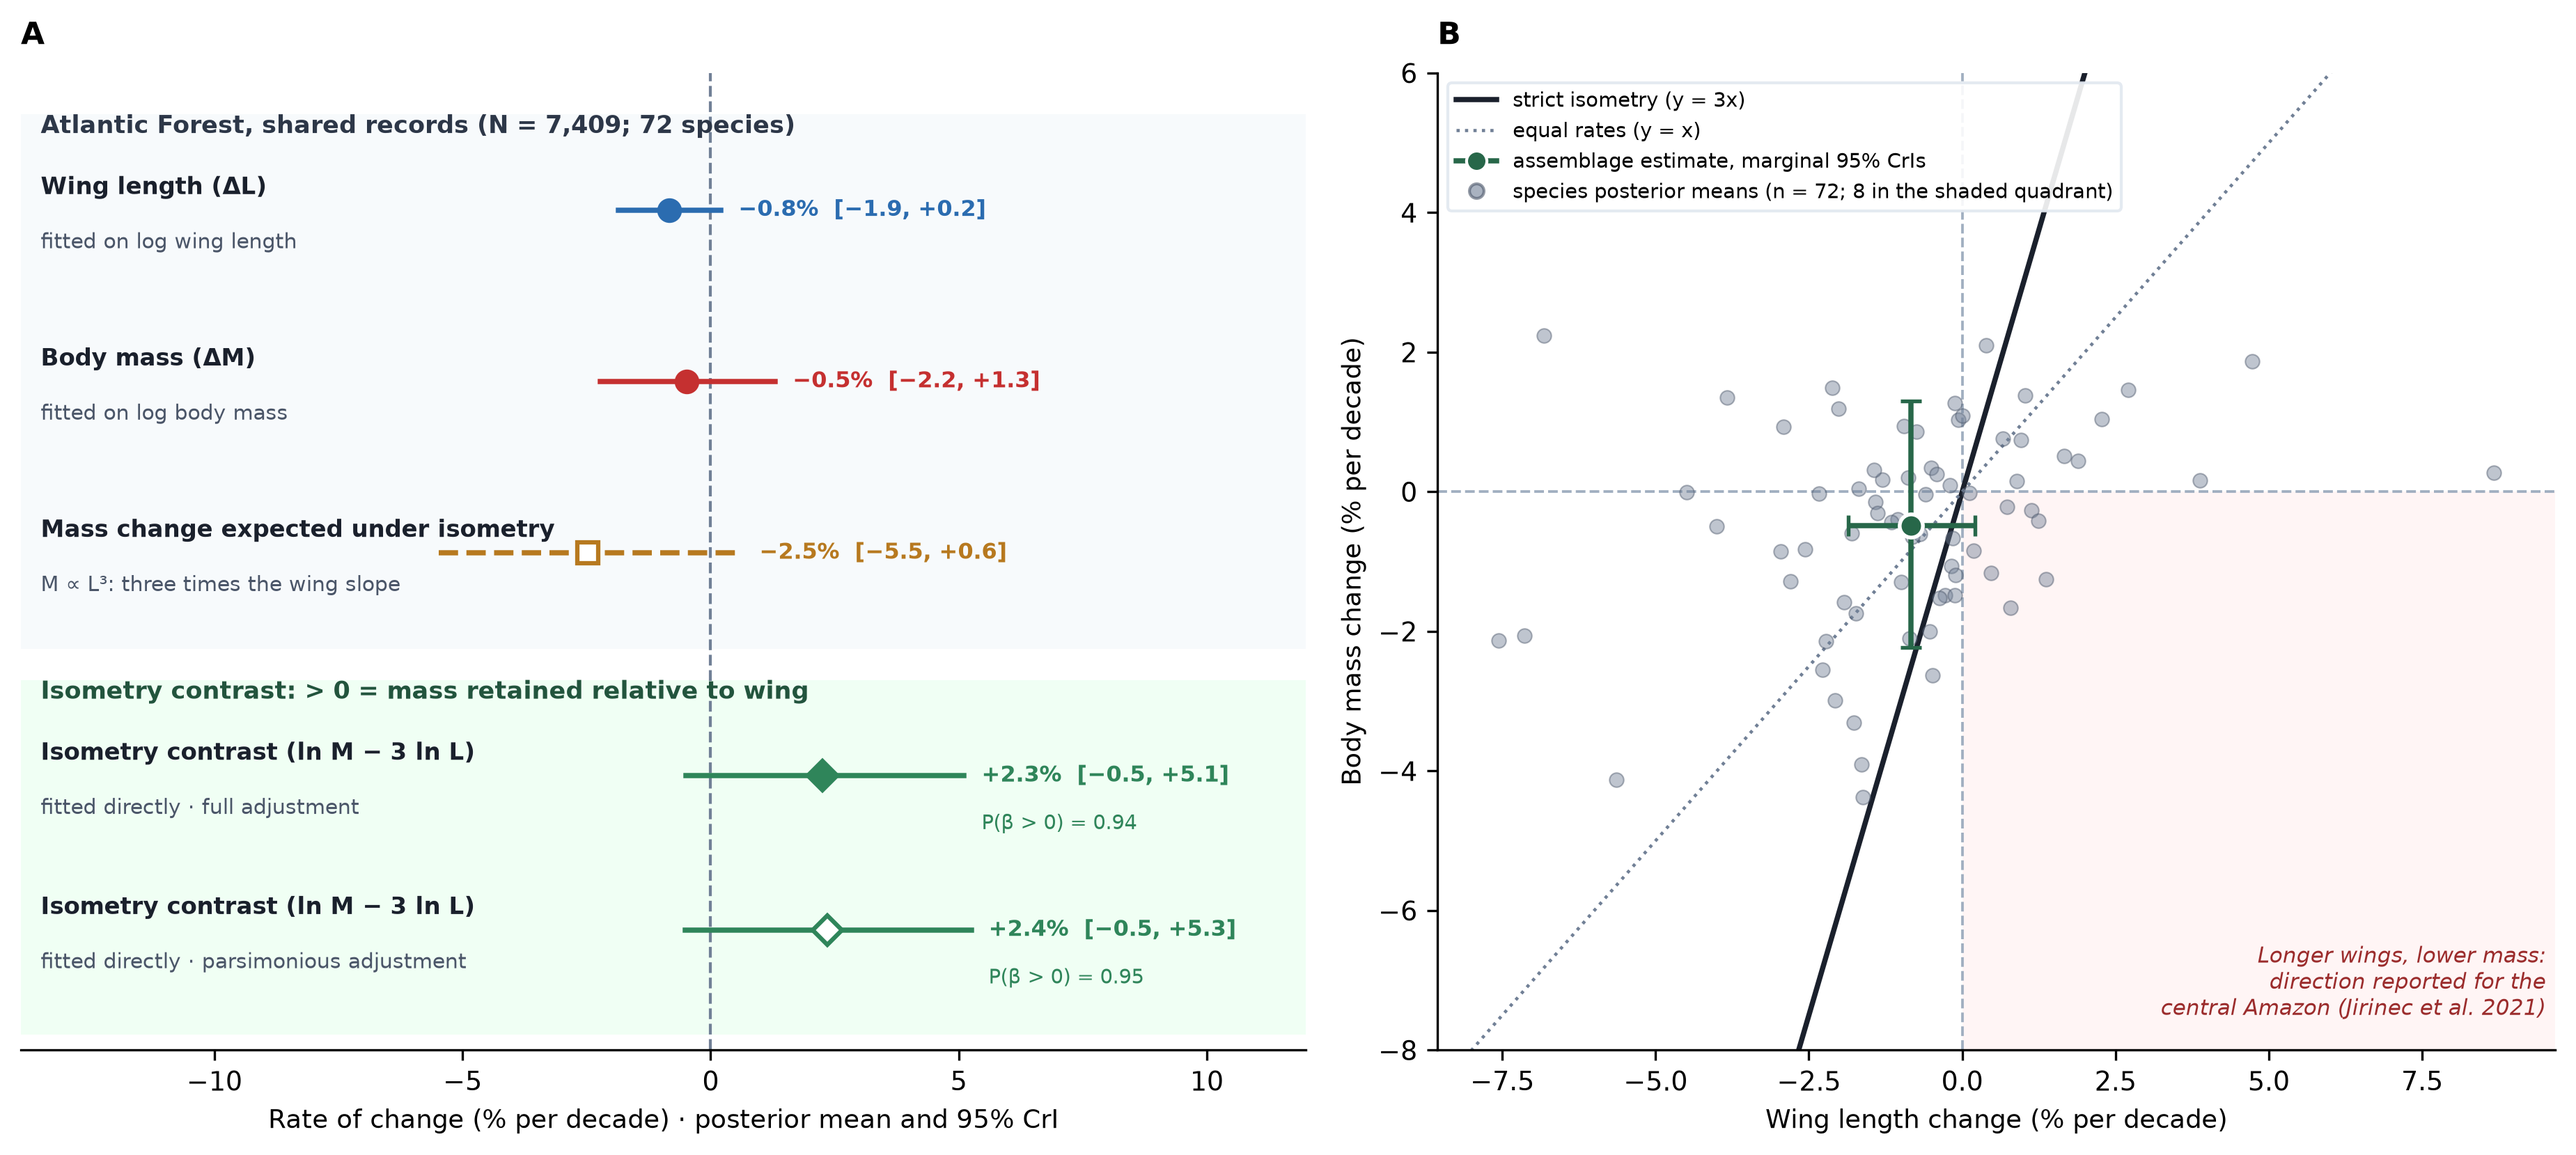
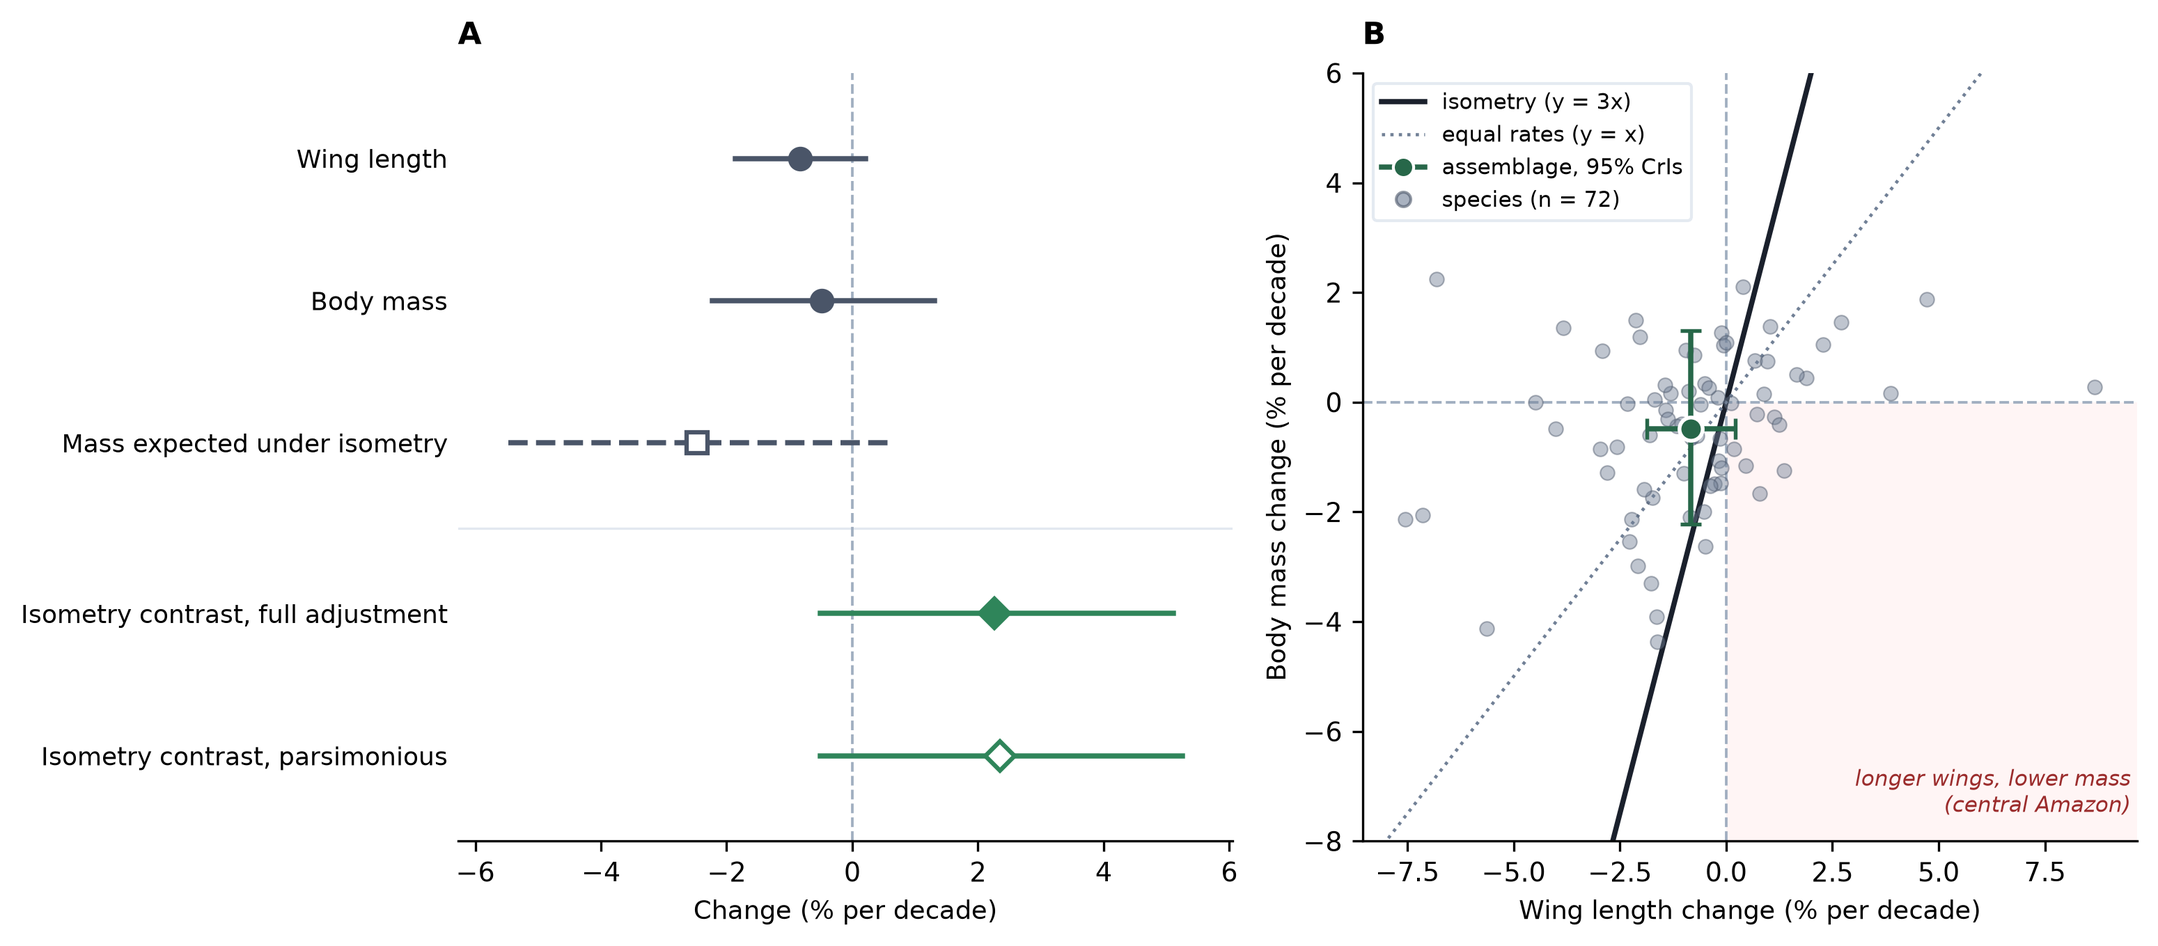
feat(figures): model-based year effects in Fig. 3; simpler isometry figure
- wing_year_effects.R: M0 and M3 with capture year as a factor (glmmTMB REML,
  50 trees, Rubin-pooled), centred on the record-weighted mean year; Fig. 3b
  shows these instead of raw annual means +/- SE, which treated records as
  independent (Shinichi's comment); raw means kept only as a fallback
- Fig. 3a: raw data and fitted trends only; legend rewritten
- isometry figure: panel A as a plain forest plot (no shaded blocks,
  sub-labels or inline values); shorter panel B legend and quadrant label

diff --git a/Manuscript/make_isometry_figure.py b/Manuscript/make_isometry_figure.py
@@ -16,8 +16,8 @@ Panel B: bivariate state space (dWing vs dMass). Wing and mass are fitted in
   shown with its two marginal 95% CrIs, not an ellipse. Species points are
   posterior means of fixed + species deviation. The quadrant of longer wings
   and lower mass is the direction of change reported for the central Amazon
-  (Jirinec et al. 2021); it is drawn qualitatively because that study reports
-  species-level trends, not a community-level rate comparable with ours.
+  (Jirinec et al. 2021), drawn as a direction; the rates themselves are compared
+  in fig-amazon (Analysis/scripts/jirinec_benchmark.R).
 
 Inputs (Rscript Analysis/scripts/make_figures.R export):
   Analysis/output/figure_data/fig_isometry_stan.csv
@@ -53,42 +53,33 @@ def neg(val, fmt=".1f"):
 def sgn(val, fmt=".1f"):
     return neg(val, "+" + fmt)
 
-fig, (ax1, ax2) = plt.subplots(1, 2, figsize=(12.4, 5.6), gridspec_kw={"width_ratios": [1.15, 1.0]})
+fig, (ax1, ax2) = plt.subplots(1, 2, figsize=(10.4, 4.6), gridspec_kw={"width_ratios": [1.0, 1.0]})
 
 # ---------------------------------------------------------------------------
-# Panel A: rates and isometry contrast
+# Panel A: rates and isometry contrast -- a plain forest plot (Shinichi Nakagawa's
+# comment, 2026-09-30: the earlier version with shaded blocks, sub-labels and value
+# annotations was hard to read). Values are given in the text and legend.
 # ---------------------------------------------------------------------------
 rows = [
-    ("wing", "Wing length (ΔL)", "fitted on log wing length", "#2B6CB0", "o", "#2B6CB0", "-"),
-    ("mass", "Body mass (ΔM)", "fitted on log body mass", "#C53030", "o", "#C53030", "-"),
-    ("expected_isometric_mass", "Mass change expected under isometry",
-     "M ∝ L³: three times the wing slope", "#B7791F", "s", "white", "--"),
-    ("contrast", "Isometry contrast (ln M − 3 ln L)", "fitted directly · full adjustment", "#2F855A", "D", "#2F855A", "-"),
-    ("contrast_parsimonious", "Isometry contrast (ln M − 3 ln L)", "fitted directly · parsimonious adjustment",
-     "#2F855A", "D", "white", "-"),
+    ("wing", "Wing length", "#4A5568", "o", "#4A5568", "-"),
+    ("mass", "Body mass", "#4A5568", "o", "#4A5568", "-"),
+    ("expected_isometric_mass", "Mass expected under isometry", "#4A5568", "s", "white", "--"),
+    ("contrast", "Isometry contrast, full adjustment", "#2F855A", "D", "#2F855A", "-"),
+    ("contrast_parsimonious", "Isometry contrast, parsimonious", "#2F855A", "D", "white", "-"),
 ]
-ys = [4.4, 3.4, 2.4, 1.1, 0.2]
-ax1.axvline(0, color="#718096", lw=1.0, ls="--", zorder=1)
-ax1.axhspan(1.85, 4.95, color="#F7FAFC", zorder=0)
-ax1.axhspan(-0.4, 1.65, color="#F0FFF4", zorder=0)
-XL = -13.5
-for (key, lab, sub, col, mk, mfc, ls), y in zip(rows, ys):
+ys = [4, 3, 2, 0.8, -0.2]
+ax1.axvline(0, color="#A0AEC0", lw=0.9, ls="--", zorder=1)
+ax1.axhline(1.4, color="#E2E8F0", lw=0.8, zorder=0)
+for (key, lab, col, mk, mfc, ls), y in zip(rows, ys):
     r = iso.loc[key]
     ax1.plot([r.lower, r.upper], [y, y], color=col, lw=1.8, ls=ls, zorder=3)
     ax1.plot(r.pct_per_decade, y, marker=mk, ms=7, color=col, markerfacecolor=mfc, markeredgewidth=1.5, zorder=4)
-    ax1.text(XL, y + 0.13, lab, fontsize=8.2, fontweight="bold", color="#1A202C", va="center")
-    ax1.text(XL, y - 0.19, sub, fontsize=7.2, color="#4A5568", va="center")
-    ax1.text(r.upper + 0.35, y, f"{sgn(r.pct_per_decade)}%  [{sgn(r.lower)}, {sgn(r.upper)}]",
-             fontsize=7.6, color=col, va="center", fontweight="bold")
-    if key.startswith("contrast"):
-        ax1.text(r.upper + 0.35, y - 0.28, f"P(β > 0) = {1 - r.p_neg:.2f}", fontsize=7, color=col, va="center")
-ax1.text(XL, 4.85, f"Atlantic Forest, shared records (N = {N:,}; {len(spp)} species)", fontsize=8.5,
-         fontweight="bold", color="#2D3748")
-ax1.text(XL, 1.55, "Isometry contrast: > 0 = mass retained relative to wing", fontsize=8.5,
-         fontweight="bold", color="#22543D")
-ax1.set_xlim(XL - 0.4, 12.0); ax1.set_ylim(-0.5, 5.2)
-ax1.set_yticks([]); ax1.spines["left"].set_visible(False)
-ax1.set_xlabel("Rate of change (% per decade) · posterior mean and 95% CrI", fontsize=8.8)
+ax1.set_yticks(ys); ax1.set_yticklabels([r[1] for r in rows], fontsize=8.6)
+ax1.tick_params(axis="y", length=0)
+lo = min(iso.loc[[r[0] for r in rows], "lower"].min(), -1.0); hi = max(iso.loc[[r[0] for r in rows], "upper"].max(), 1.0)
+ax1.set_xlim(lo - 0.8, hi + 0.8); ax1.set_ylim(-0.8, 4.6)
+ax1.spines["left"].set_visible(False)
+ax1.set_xlabel("Change (% per decade)", fontsize=8.8)
 ax1.set_title("A", fontsize=10.5, fontweight="bold", loc="left", pad=10)
 
 # ---------------------------------------------------------------------------
@@ -99,7 +90,7 @@ xlim = (min(-6.0, spp.pct_per_decade_wing.min() - pad), max(4.0, spp.pct_per_dec
 ylim = (min(-8.0, spp.pct_per_decade_mass.min() - pad), max(6.0, spp.pct_per_decade_mass.max() + pad))
 ax2.set_xlim(xlim); ax2.set_ylim(ylim)
 ax2.add_patch(Rectangle((0, ylim[0]), xlim[1], -ylim[0], facecolor="#FFF5F5", edgecolor="none", zorder=0))
-ax2.text(xlim[1] - 0.15, ylim[0] + 0.4, "Longer wings, lower mass:\ndirection reported for the\ncentral Amazon (Jirinec et al. 2021)",
+ax2.text(xlim[1] - 0.15, ylim[0] + 0.4, "longer wings, lower mass\n(central Amazon)",
          fontsize=7.4, color="#9B2C2C", style="italic", ha="right", va="bottom")
 ax2.axvline(0, color="#A0AEC0", lw=0.9, ls="--", zorder=1)
 ax2.axhline(0, color="#A0AEC0", lw=0.9, ls="--", zorder=1)
@@ -119,13 +110,13 @@ ax2.set_xlabel("Wing length change (% per decade)", fontsize=8.8)
 ax2.set_ylabel("Body mass change (% per decade)", fontsize=8.8)
 ax2.set_title("B", fontsize=10.5, fontweight="bold", loc="left", pad=10)
 ax2.legend(handles=[
-    Line2D([0], [0], color="#1A202C", lw=1.8, label="strict isometry (y = 3x)"),
+    Line2D([0], [0], color="#1A202C", lw=1.8, label="isometry (y = 3x)"),
     Line2D([0], [0], color="#718096", lw=1.1, ls=":", label="equal rates (y = x)"),
     Line2D([0], [0], marker="o", color="#276749", mec="white", ms=7, lw=1.8,
-           label="assemblage estimate, marginal 95% CrIs"),
+           label="assemblage, 95% CrIs"),
     Line2D([0], [0], marker="o", color="none", markerfacecolor="#718096", markeredgecolor="#4A5568", alpha=0.6,
-           ms=5, label=f"species posterior means (n = {len(spp)}; {n_decoupled} in the shaded quadrant)")],
-    loc="upper left", frameon=True, facecolor="white", framealpha=0.9, edgecolor="#E2E8F0", fontsize=7.0)
+           ms=5, label=f"species (n = {len(spp)})")],
+    loc="upper left", frameon=True, facecolor="white", framealpha=0.9, edgecolor="#E2E8F0", fontsize=7.4)
 
 plt.tight_layout()
 fig_path = os.path.join(OUT, "fig-isometry.png")

diff --git a/Manuscript/make_figures.py b/Manuscript/make_figures.py
@@ -278,9 +278,25 @@ if ba is not None:
     m0, m3 = year_term(ba, "M0"), year_term(ba, "M3")
 if ba_compare is not None:
     m3_compare = year_term(ba_compare, "M3")
+# Panel b shows model-based year effects (wing_year_effects.R: M0 and M3 with year as a
+# factor, centred on the record-weighted mean year, REML over the phylogenetic trees).
+# Raw annual means +/- 1.96 SE treat records as independent and understate the
+# uncertainty of well-sampled years (Shinichi Nakagawa's comment, 2026-09-30); they are
+# drawn only as a fallback when the year-effect table is missing.
+ye = fd_csv("fig_wingtrend_year_effects.csv", required=False, quiet=True)
+if ye is not None:
+    for mdl, off, face, col, lab in (("M0", -0.17, "white", "#777777", "M0 year effects ± 95% CI"),
+                                      ("M3", 0.17, "#2E5090", "#2E5090", "M3 year effects ± 95% CI")):
+        r = ye[ye.model == mdl].sort_values("year")
+        axz.errorbar(r.year + off, r.estimate, yerr=[r.estimate - r.lo, r.hi - r.estimate], fmt="o", ms=3.4,
+                     mfc=face, mec=col, color=col, ecolor=col, elinewidth=0.8, capsize=1.2, zorder=4, label=lab)
+        for _, x in r.iterrows():
+            note("fig-wingtrend", f"{mdl} year effect {int(x.year)}", float(x.estimate))
+else:
+    print("WARNING: fig_wingtrend_year_effects.csv missing; panel b falls back to raw annual means")
+    axz.errorbar(ann.Year, ann["mean"], yerr=1.96 * ann.se, fmt="o", ms=3.2, color="black", ecolor="#555555",
+                 elinewidth=0.8, capsize=1.5, zorder=4, label="annual mean ± 95% CI (records treated as independent)")
 for a in (ax, axz):
-    a.errorbar(ann.Year, ann["mean"], yerr=1.96 * ann.se, fmt="o", ms=3.2, color="black", ecolor="#555555",
-               elinewidth=0.8, capsize=1.5, zorder=4, label="annual mean ± 95% CI")
     a.axhline(0, color="#BBBBBB", lw=0.6, zorder=0)
     if m0:
         a.plot(yr_grid, m0["est"] * z, color="#777777", lw=1.6, ls="--", zorder=3,
@@ -313,9 +329,14 @@ ins.tick_params(labelsize=5.5, length=2, pad=1)
 ins.set_xticks([1995, 2000, 2005, 2010, 2015]); ins.spines[["top", "right"]].set_visible(False)
 ins.patch.set_alpha(0.85)
 # zoom panel: annual means and the fitted lines on the scale of the effect
-zl = max(3.0, float(np.nanmax(np.abs(ann["mean"] + np.sign(ann["mean"]) * 1.96 * ann.se))) * 1.05)
+if ye is not None:
+    # the end years (1995: 19 records, 2018: 12) have very wide intervals; let their bars run off the panel
+    inner = ye[(ye.n_records >= 40)]
+    zl = max(3.0, float(np.nanmax(np.abs(np.r_[inner.lo, inner.hi]))) * 1.05)
+else:
+    zl = max(3.0, float(np.nanmax(np.abs(ann["mean"] + np.sign(ann["mean"]) * 1.96 * ann.se))) * 1.05)
 axz.set_ylim(-zl, zl); axz.set_xlabel("Year")
-axz.set_ylabel("Deviation from species × sex\nmean wing length (mm), zoom")
+axz.set_ylabel("Year effect on wing length (mm)" if ye is not None else "Deviation from species × sex\nmean wing length (mm), zoom")
 axz.text(0.01, 0.98, "b", transform=axz.transAxes, fontweight="bold", va="top")
 axz.legend(loc="lower left", frameon=False, fontsize=7.2)
 fig.savefig(f"{OUT}/fig-wingtrend.png", bbox_inches="tight"); plt.close(fig)
